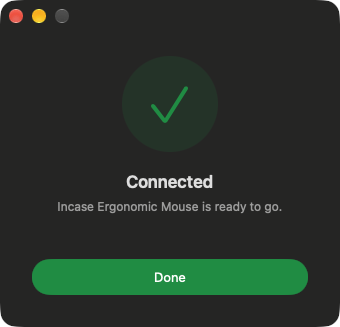
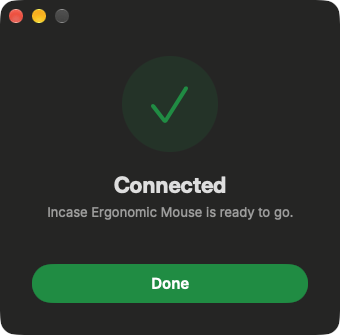
App uses Tether Sans and Tether Display; mobbin gap matrix in roadmap

diff --git a/Tether.swift b/Tether.swift
@@ -12,6 +12,13 @@ import SwiftUI
     }
 }
 
+// Tether Sans and Tether Display ship in Resources/Fonts (ATSApplicationFontsPath); scripts/gen_font.py makes them.
+extension Font {
+    static let heading = Font.custom("TetherDisplay-Bold", size: 22, relativeTo: .title2)
+    static let detail = Font.custom("TetherSans-Regular", size: 13, relativeTo: .callout)
+    static let button = Font.custom("TetherSans-Semibold", size: 15, relativeTo: .body)
+}
+
 extension Color {
     static let brand = Color(red: 0x16 / 255, green: 0x99 / 255, blue: 0x4a / 255)
 }
@@ -85,11 +92,11 @@ struct ContentView: View {
                 .padding(.bottom, 20)
 
             Text(title)
-                .font(.title2.weight(.semibold))
+                .font(.heading)
                 .padding(.bottom, 6)
 
             Text(subtitle)
-                .font(.callout)
+                .font(.detail)
                 .foregroundStyle(.secondary)
                 .multilineTextAlignment(.center)
                 .fixedSize(horizontal: false, vertical: true)
@@ -97,7 +104,7 @@ struct ContentView: View {
                 .padding(.bottom, 24)
 
             Button(action: primary) {
-                Text(buttonTitle).frame(maxWidth: .infinity)
+                Text(buttonTitle).font(.button).frame(maxWidth: .infinity)
             }
             .buttonStyle(.borderedProminent)
             .buttonBorderShape(.capsule)

diff --git a/roadmap.md b/roadmap.md
@@ -1,0 +1,18 @@
+# Tether roadmap
+
+## Gap matrix (mobbin pass, 2026-11-22)
+Compared against ToothFairy, AirBuddy, AllMyBatteries and Bluetooth Battery Monitor from their App Store sheets. One row per minor version, daily use first.
+
+| Gap | Who has it | Size | Status |
+|---|---|---|---|
+| Global hotkey to reconnect without Spotlight (Carbon hotkey, no permission) | ToothFairy | S | todo |
+| Menu bar item: mouse state at a glance, Reconnect, Quit | ToothFairy, AirBuddy | M | todo |
+| Open at login (SMAppService), off by default | ToothFairy, AirBuddy | S | todo |
+| Pick the device: any paired mouse, trackpad or keyboard, not only names with "mouse" | ToothFairy, Bluetooth Battery Monitor | S | todo |
+| A quiet notification when it reconnects after a drop | AllMyBatteries, Bluetooth Battery Monitor | S | todo |
+| "Bluetooth is ready" status line | Bluetooth Battery Monitor | S | done (Bluetooth Is Off state) |
+
+Skipped: battery level (macOS keeps a BLE mouse's battery private), widgets, history charts, iCloud sync.
+
+## Then
+Run the `apple` skill's checks over every state (connecting, connected, not responding, Bluetooth off) in light and dark. Notarize and attach a signed zip to a GitHub release so people can download instead of building.
